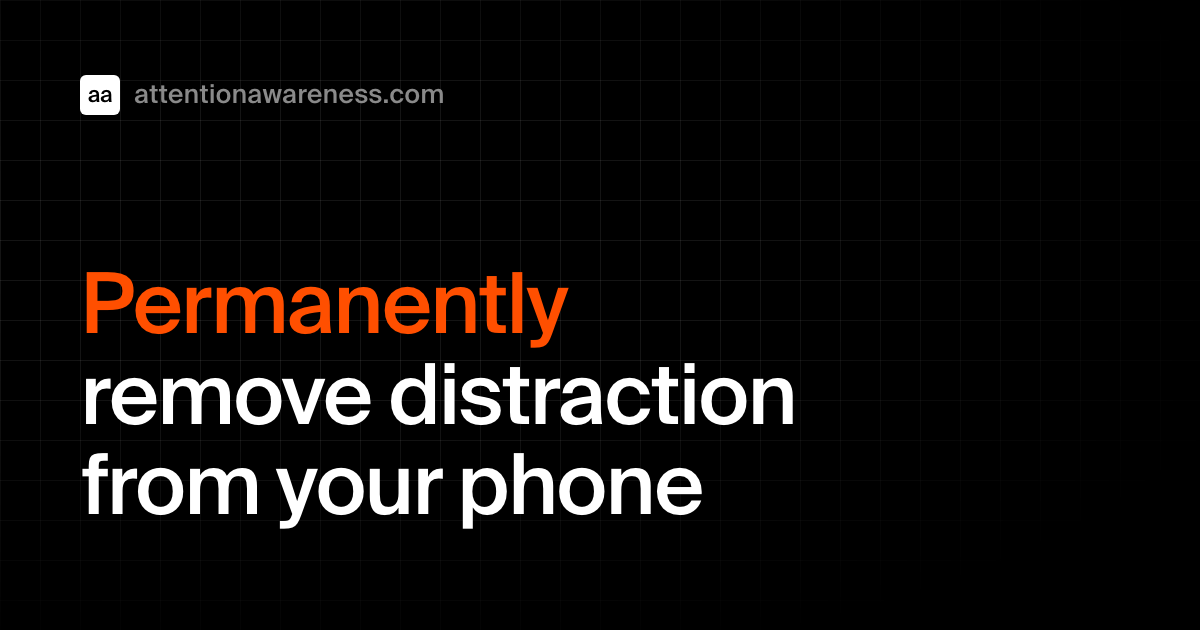
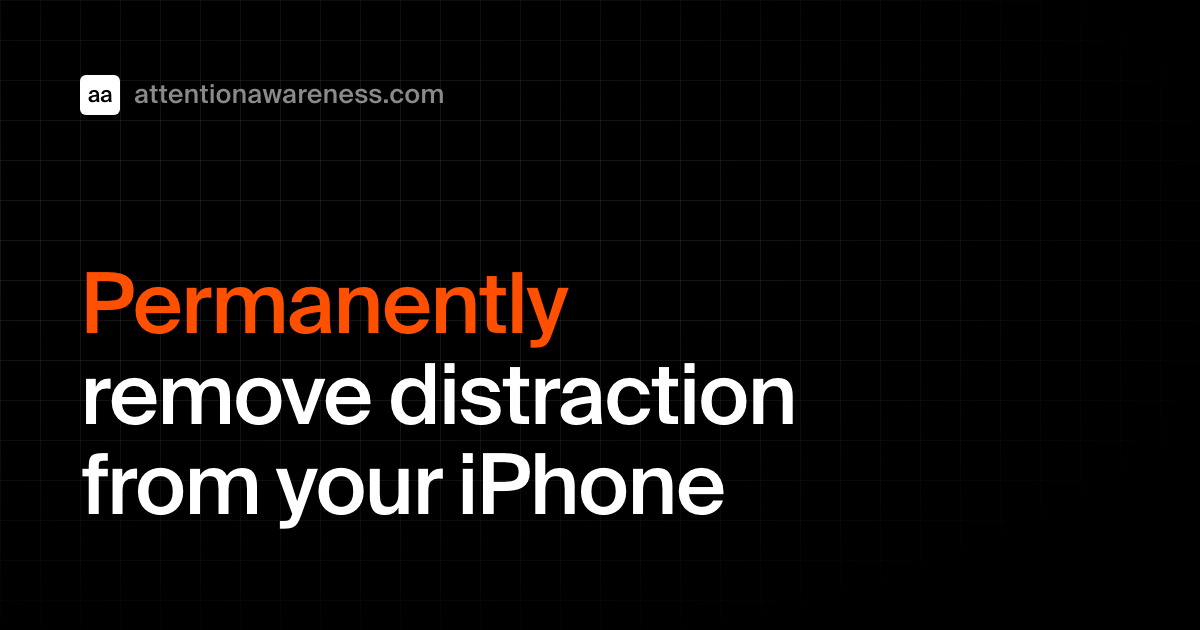
fix(web): hero says iPhone, one button, even numbers

Changed region(s): [[0.37, 0.6937, 0.6167, 0.8444]]

diff --git a/apps/web/src/routes/index.tsx b/apps/web/src/routes/index.tsx
@@ -268,35 +268,12 @@ const styles = create({
   accentWord: {
     color: accent.base,
   },
-  // The download and the guide, and the price close under them.
+  // The download, and the price close under it.
   heroAction: {
     alignItems: 'flex-start',
     display: 'flex',
     flexDirection: 'column',
     gap: spacing.s3,
-  },
-  // The download and the guide beside it, on their feet, so a phone's
-  // note over its button leaves the two buttons level. They stack where the
-  // row runs out.
-  heroButtons: {
-    alignItems: 'flex-end',
-    display: 'flex',
-    flexWrap: 'wrap',
-    gap: spacing.s3,
-  },
-  // The manual way's full name where the row has room for it beside the
-  // download, and its short name on a phone.
-  heroManualLong: {
-    display: {
-      '@media (min-width: 640px)': 'inline',
-      default: 'none',
-    },
-  },
-  heroManualShort: {
-    display: {
-      '@media (min-width: 640px)': 'none',
-      default: 'inline',
-    },
   },
   heroPrice: {
     color: colors.muted,
@@ -464,6 +441,12 @@ const styles = create({
     textAlign: 'center',
   },
   // The button stands a step clear of the lines it follows.
+  story: {
+    display: 'flex',
+    flexDirection: 'column',
+    gap: spacing.s4,
+    maxWidth: 640,
+  },
   supportButton: {
     marginBlockStart: spacing.s2,
   },
@@ -479,16 +462,6 @@ const styles = create({
     lineHeight: 1.5,
     margin: 0,
     textWrap: 'balance',
-  },
-  // Two times at the display size, their digits at one width.
-  stat: {
-    fontVariantNumeric: 'tabular-nums',
-  },
-  story: {
-    display: 'flex',
-    flexDirection: 'column',
-    gap: spacing.s4,
-    maxWidth: 640,
   },
   // Paragraphs of prose, so the ink is pulled a step toward the page.
   storyLine: {
@@ -647,7 +620,7 @@ function HomePage() {
       first section. */}
       <GridTexture />
       {/* The first screen: the claim, why it lasts, and the download with its
-      price and the guide beside it, next to the phone the feeds leave. */}
+      price, next to the phone the feeds leave. */}
       <header {...props(styles.hero)}>
         <div {...props(styles.heroText)}>
           <h1 {...props(styles.displayTitle)}>
@@ -657,13 +630,7 @@ function HomePage() {
           </h1>
           <Promises promises={heroPromises} style={styles.heroPromises} />
           <div {...props(styles.heroAction)}>
-            <div {...props(styles.heroButtons)}>
-              <MacDownload placement="hero" />
-              <Button render={<a href={GUIDE_URL} />} variant="outline">
-                <span {...props(styles.heroManualLong)}>{m.home_hero_diy_cta()}</span>
-                <span {...props(styles.heroManualShort)}>{m.home_hero_diy_cta_short()}</span>
-              </Button>
-            </div>
+            <MacDownload placement="hero" />
             <p {...props(styles.heroPrice)}>{m.home_hero_price()}</p>
           </div>
         </div>
@@ -731,7 +698,7 @@ function HomePage() {
         {/* That it works, once the way is told: the before in words, my own
         screen time after. */}
         <section {...props(styles.section, styles.anchor)} id={PROOF_ID}>
-          <h2 {...props(styles.displayTitle, styles.stat)}>{m.home_proof_title()}</h2>
+          <h2 {...props(styles.displayTitle)}>{m.home_proof_title()}</h2>
           <p {...props(styles.sectionBody)}>{m.home_proof_lead()}</p>
           <ScreenShots
             caption={m.home_proof_caption()}

diff --git a/apps/web/src/components/hero-phone.tsx b/apps/web/src/components/hero-phone.tsx
@@ -225,7 +225,6 @@ const styles = create({
   },
   stat: {
     fontSize: font.sizeLg,
-    fontVariantNumeric: 'tabular-nums',
     fontWeight: font.weightMedium,
     lineHeight: 1.3,
     margin: 0,
